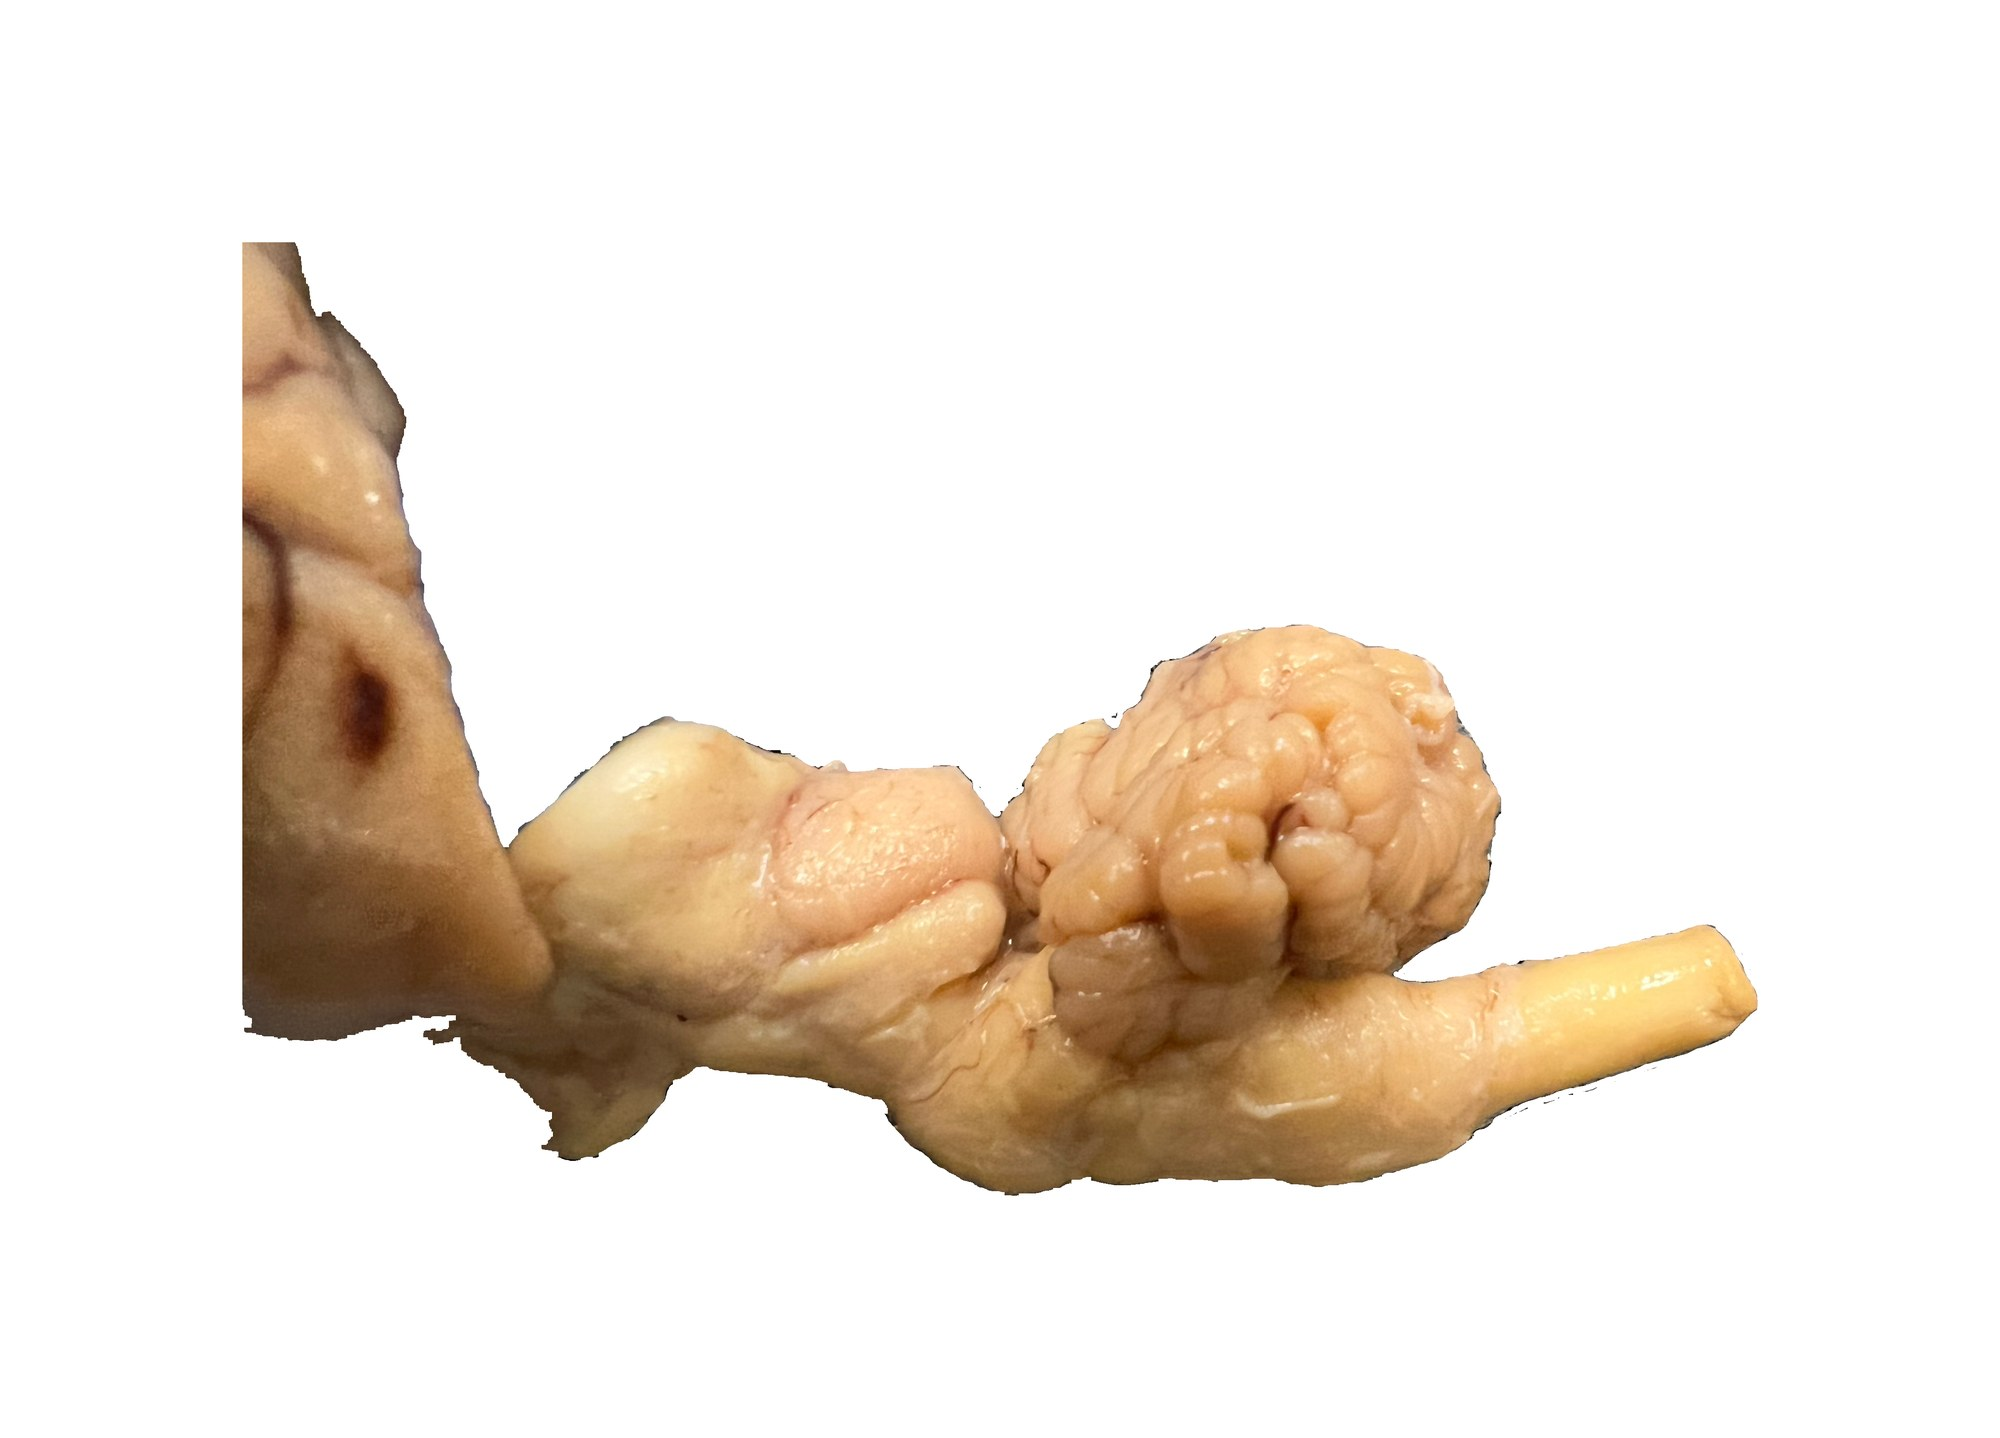
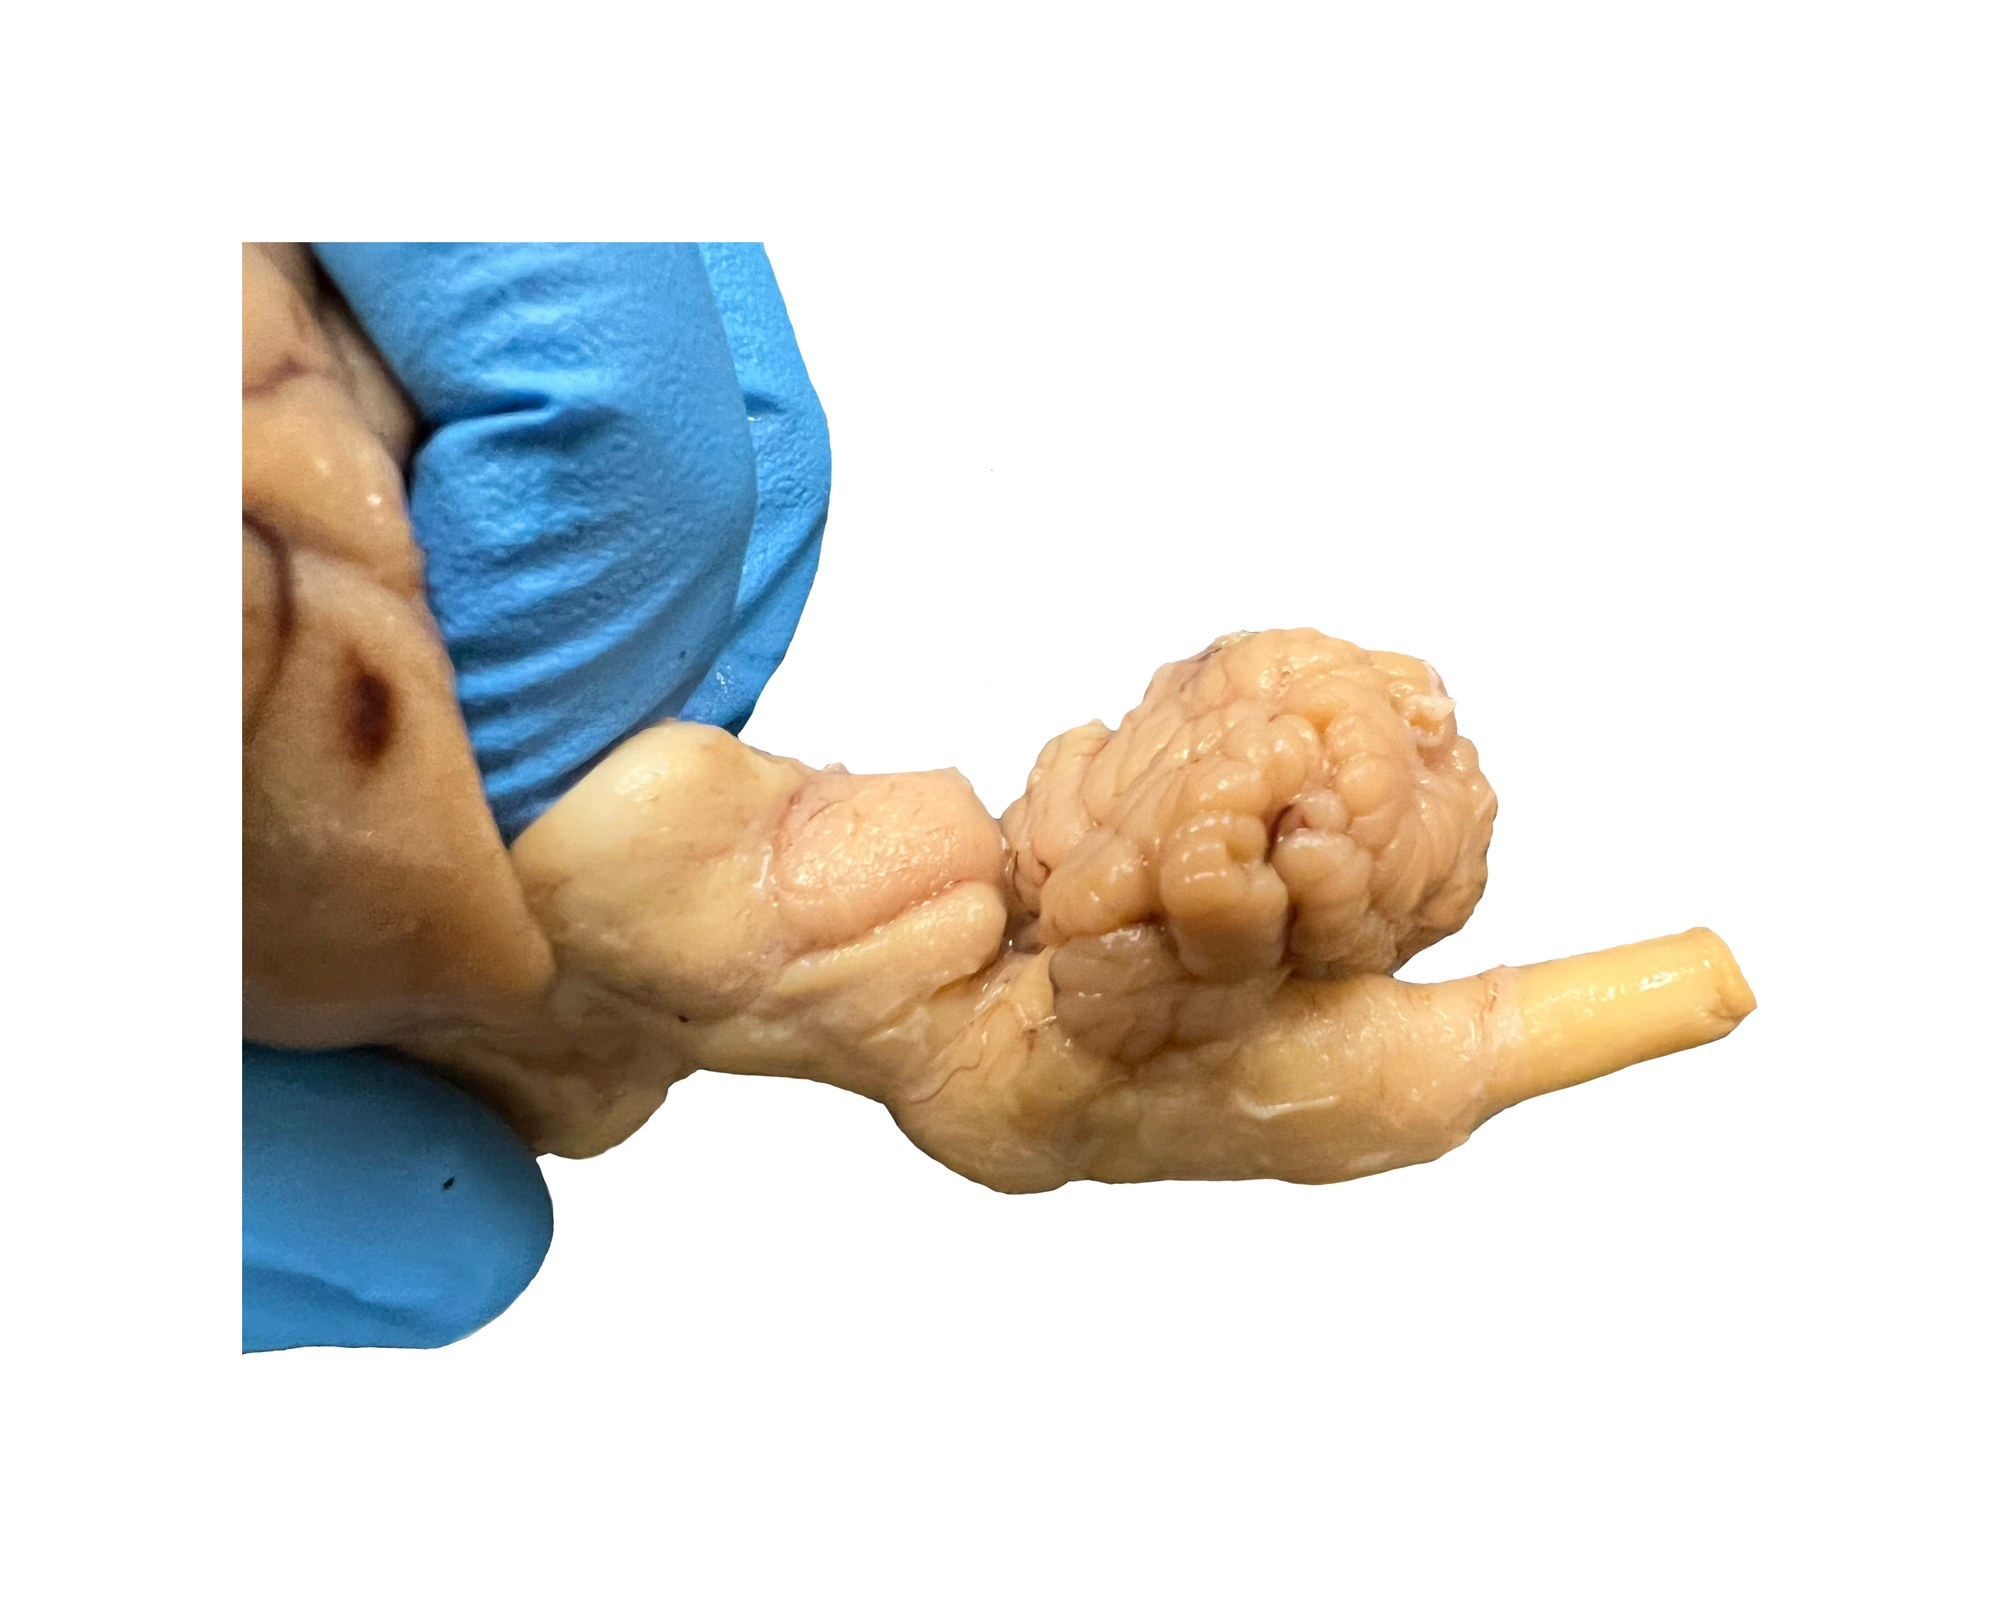
Use the improved Pulled Back Lateral photograph
Rebuilt from the new master, which frames the specimen larger and keeps the
glove. It is the same photograph as before, so the five markers were carried
across by registering the two crops rather than re-placed. The plate pipeline
now accepts masters whose background is painted white as well as ones with an
alpha channel, and knows about this plate.

Changed region(s): [[0.124, 0.153, 0.899, 0.8567]]

diff --git a/scripts/prepare-plates.py b/scripts/prepare-plates.py
@@ -15,9 +15,10 @@ import pathlib
 import sys
 
 try:
+    import numpy as np
     from PIL import Image
 except ImportError:
-    sys.exit("Pillow is required:  python3 -m pip install Pillow")
+    sys.exit("Pillow and NumPy are required:  python3 -m pip install Pillow numpy")
 
 ROOT = pathlib.Path(__file__).resolve().parent.parent
 SRC = ROOT / "images" / "clean"
@@ -41,6 +42,7 @@ PLATES = {
     "Gross Lateral View.png":       "lateral",
     "Gross Posterior Internal.png": "posterior-internal",
     "Gross Ventral View.png":       "ventral",
+    "Pulled Back Lateral View.png": "pulled-back-lateral",
     # "Midsagittal.png":            "midsagittal",   # see note below
 }
 
@@ -55,12 +57,25 @@ ROTATE = {
 
 def prepare(src: pathlib.Path, dst: pathlib.Path, margin: float, max_dim: int, quality: int,
             rotate: int = 0):
-    im = Image.open(src).convert("RGBA")
+    im = Image.open(src)
 
-    # Trim to the opaque region — the specimen
-    bbox = im.getchannel("A").getbbox()
-    if bbox is None:
-        raise ValueError("image is fully transparent")
+    # Masters come two ways: with the background cut to transparency, or with it
+    # already painted white. Trim to whichever marks the specimen.
+    if "A" in im.getbands() and im.getchannel("A").getextrema()[0] < 255:
+        im = im.convert("RGBA")
+        bbox = im.getchannel("A").getbbox()
+        if bbox is None:
+            raise ValueError("image is fully transparent")
+    else:
+        im = im.convert("RGB")
+        a = np.asarray(im).astype(int)
+        content = ~((a > 244).all(2))
+        cols = np.nonzero(content.any(0))[0]
+        rows = np.nonzero(content.any(1))[0]
+        if not len(cols) or not len(rows):
+            raise ValueError("image is entirely background")
+        bbox = (int(cols[0]), int(rows[0]), int(cols[-1]) + 1, int(rows[-1]) + 1)
+        im = im.convert("RGBA")
     im = im.crop(bbox)
 
     # Uniform margin, sized off the long edge so plates look consistent
